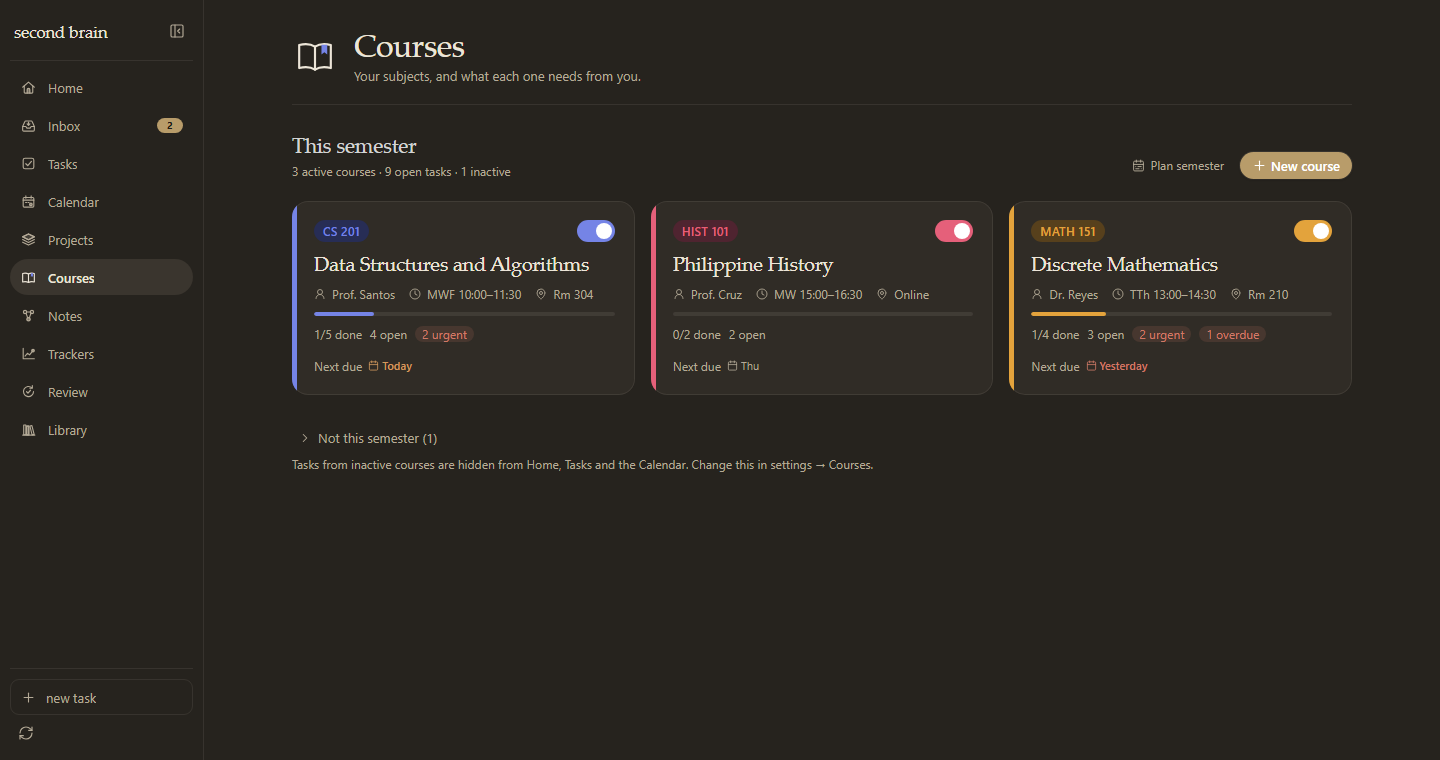
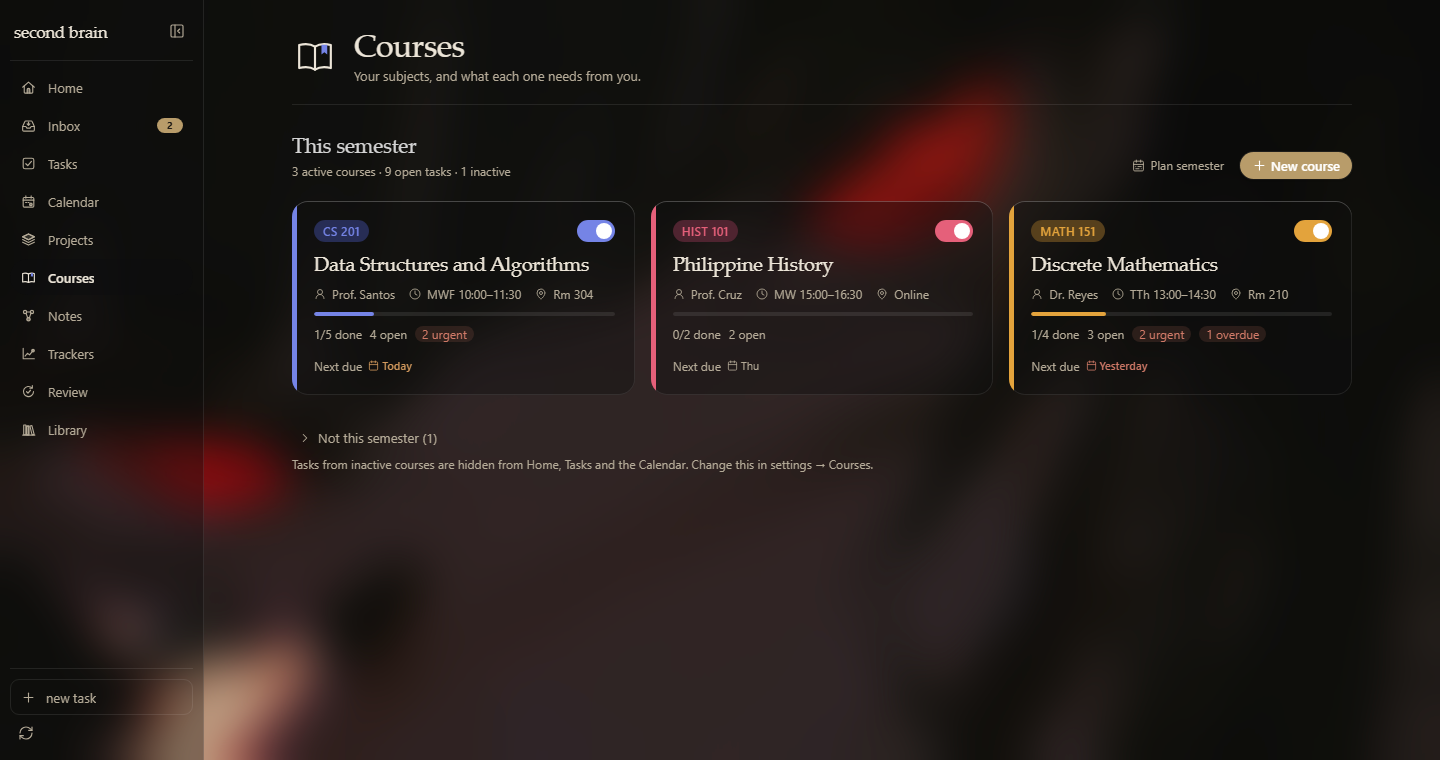
README screenshots with Glass mode and the demo wallpaper

diff --git a/README.md b/README.md
@@ -6,6 +6,8 @@ It doesn't ask you to reorganize anything. It reads the notes, tasks and frontma
 
 ![Home](docs/screenshots/home.png)
 
+*Screenshots use the Gallery style, the Joejoe Gallery theme and [Glass mode](#look-and-feel) with a wallpaper.*
+
 ---
 
 ## Contents
